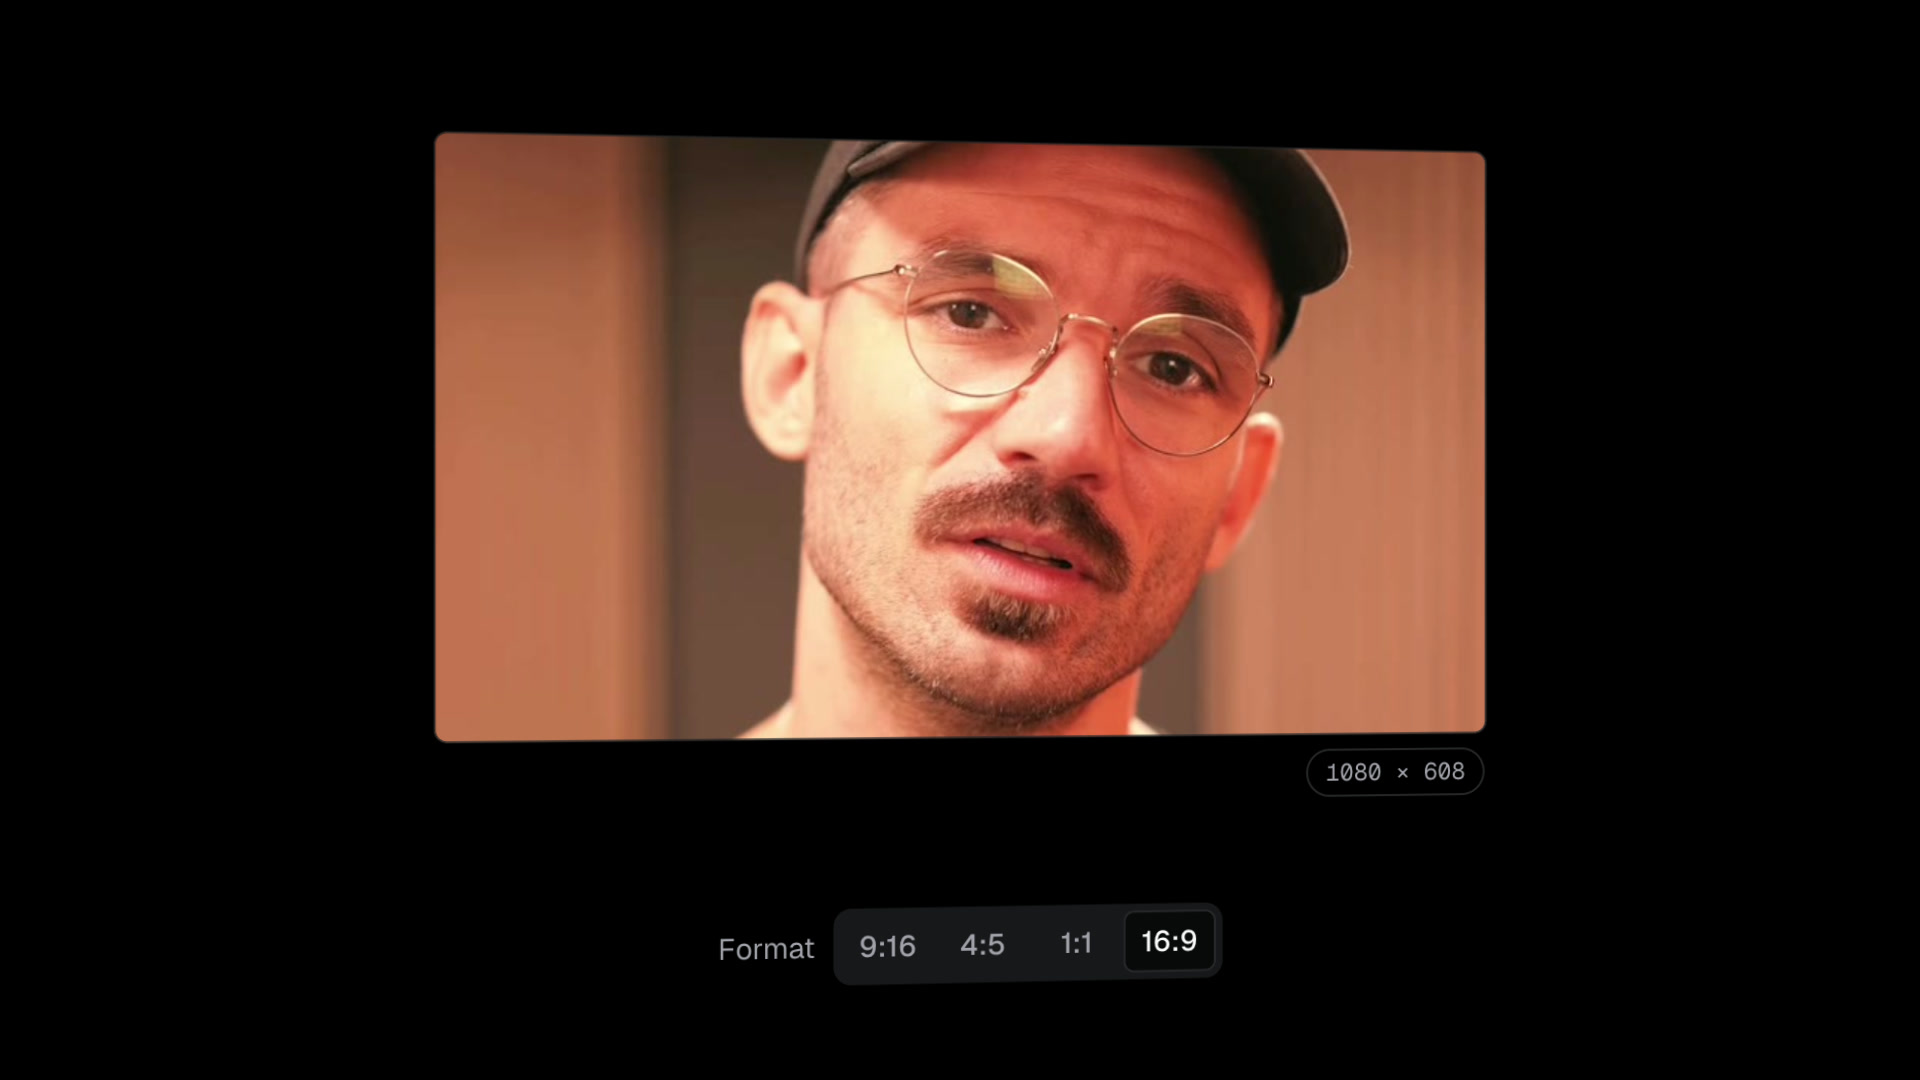
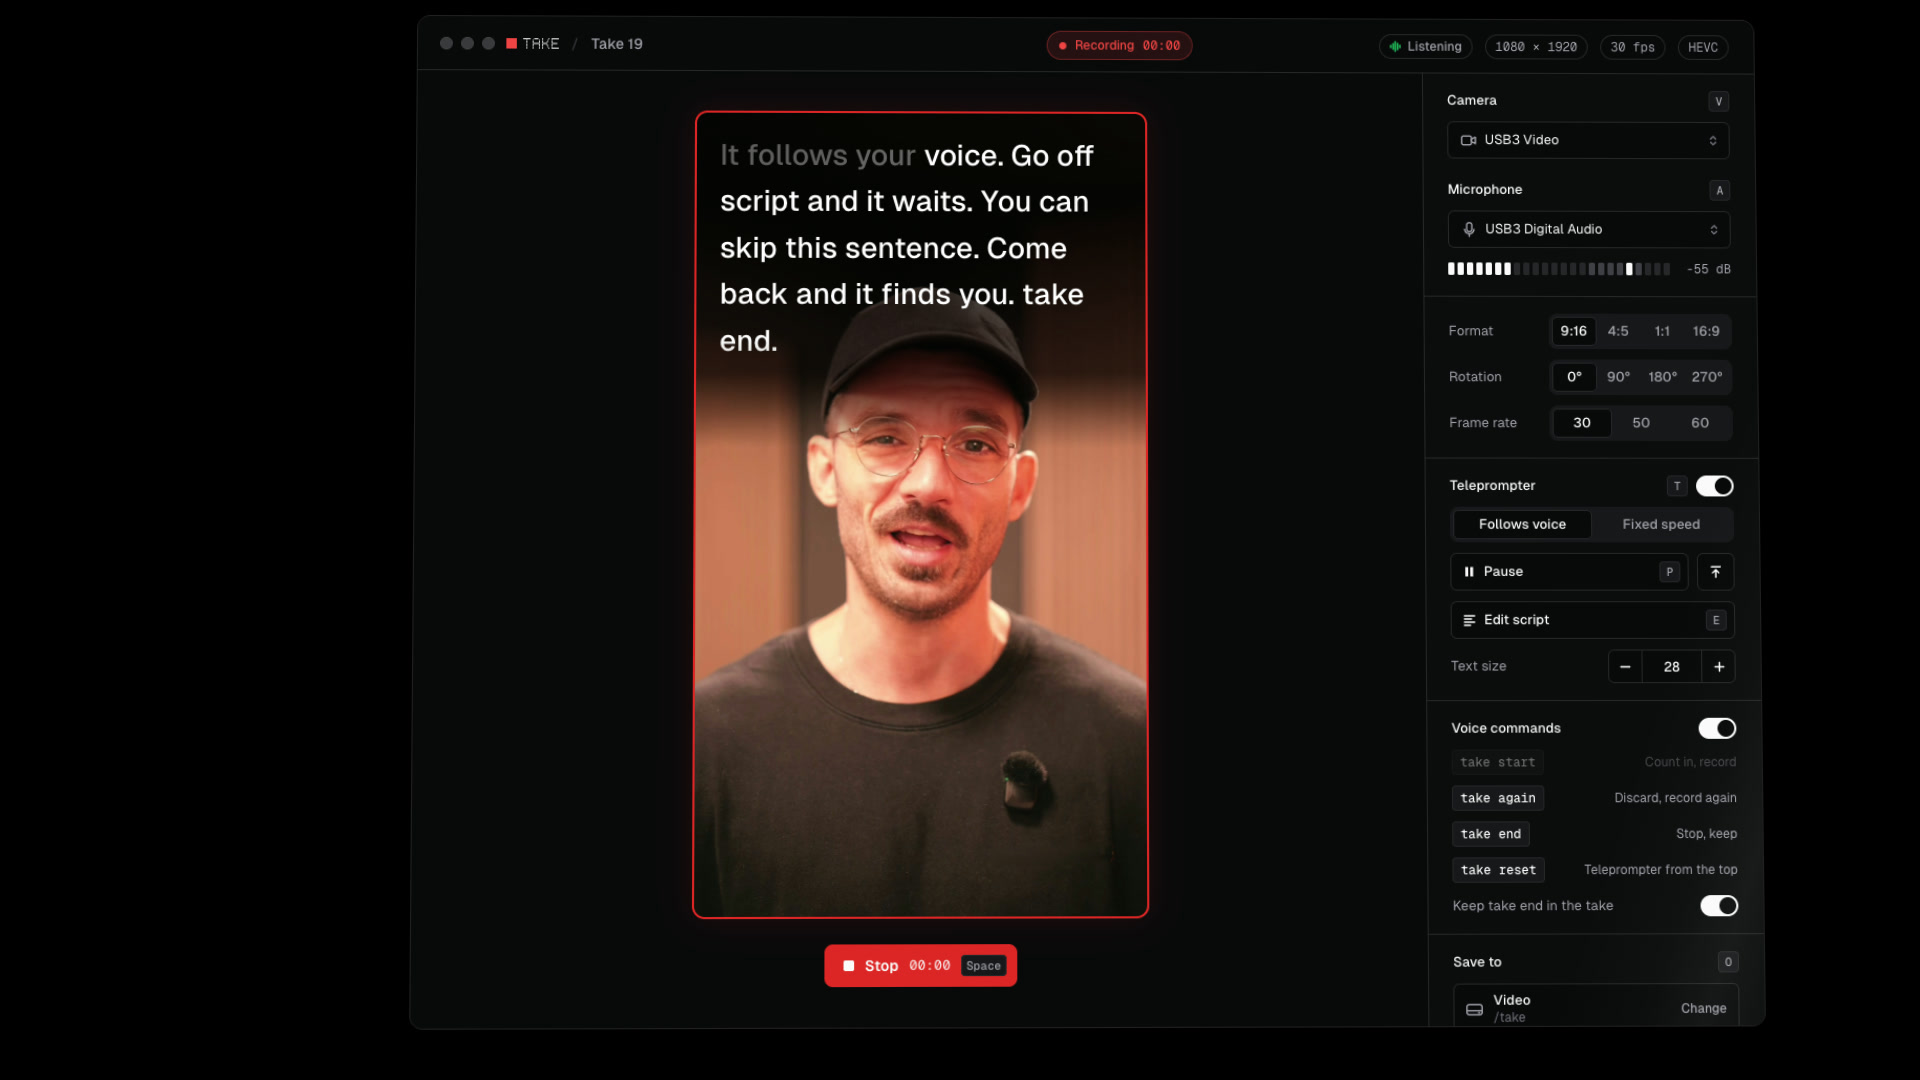
take 1.1: notarized, update checks on request

diff --git a/take/source/Sources/main.swift b/take/source/Sources/main.swift
@@ -107,6 +107,15 @@ enum D {
         get { d.object(forKey: "voiceCommands") as? Bool ?? true }
         set { d.set(newValue, forKey: "voiceCommands") }
     }
+    /// Off unless turned on in the sidebar: the only setting that lets take use the network.
+    static var updateCheck: Bool {
+        get { d.bool(forKey: "updateCheck") }
+        set { d.set(newValue, forKey: "updateCheck") }
+    }
+    static var lastUpdateCheck: Double {
+        get { d.double(forKey: "lastUpdateCheck") }
+        set { d.set(newValue, forKey: "lastUpdateCheck") }
+    }
     static var video: String? { get { d.string(forKey: "video") } set { d.set(newValue, forKey: "video") } }
     static var audio: String? { get { d.string(forKey: "audio") } set { d.set(newValue, forKey: "audio") } }
     static var folder: String? { get { d.string(forKey: "folder") } set { d.set(newValue, forKey: "folder") } }
@@ -251,6 +260,9 @@ final class Model {
     var promptMode: PromptMode = PromptMode(rawValue: D.promptMode) ?? .voice
     var voiceCommands = D.voiceCommands
     var keepEnd = D.keepEnd
+    var updateCheck = D.updateCheck
+    /// A newer version seen on take.ante.design, shown in the sidebar until this app is updated.
+    var updateAvailable: String?
     var listening = false
     var countdown: Int?
     var scriptVersion = 0
@@ -297,6 +309,8 @@ final class Model {
     @ObservationIgnored private var takeStartOffset: CGFloat = 0
     @ObservationIgnored private var badQueue: [Toast] = []
     @ObservationIgnored private var fpsWarned = ""
+    @ObservationIgnored private let updater = Updater()
+    @ObservationIgnored private var updateTimer: Timer?
 
     init() {
         folder = Model.defaultFolder()
@@ -323,6 +337,7 @@ final class Model {
         listener.onLog = { lg.write($0) }
         engine.onLog = { lg.write($0) }
         tracker.load(script)
+        startUpdateChecks()
         // First launch: the onboarding script says "read this out loud and watch it keep up", so it has to be following already.
         if D.d.object(forKey: "script") == nil && promptMode == .voice {
             prompt.running = true
@@ -507,6 +522,37 @@ final class Model {
         keepEnd.toggle()
         D.keepEnd = keepEnd
     }
+
+    func toggleUpdateCheck() {
+        updateCheck.toggle()
+        D.updateCheck = updateCheck
+        if updateCheck { checkForUpdate(force: true) } else { updateAvailable = nil }
+        startUpdateChecks()
+    }
+
+    /// While the switch is on: a check at launch, then the timer looks every hour whether a day has passed.
+    private func startUpdateChecks() {
+        updateTimer?.invalidate()
+        updateTimer = nil
+        guard updateCheck else { return }
+        checkForUpdate(force: false)
+        updateTimer = Timer.scheduledTimer(withTimeInterval: 3600, repeats: true) { [weak self] _ in self?.checkForUpdate(force: false) }
+    }
+
+    private func checkForUpdate(force: Bool) {
+        let now = Date().timeIntervalSince1970
+        guard updateCheck, force || now - D.lastUpdateCheck >= Updater.interval else { return }
+        D.lastUpdateCheck = now
+        updater.check { [weak self] newer in
+            guard let self, updateCheck else { return }
+            let wasKnown = updateAvailable == newer
+            updateAvailable = newer
+            if let v = newer, !wasKnown { say("take \(v) is out", "Download it from take.ante.design.") }
+            else if newer == nil && force { say("take is up to date", "Version \(Updater.currentVersion).") }
+        }
+    }
+
+    func openUpdatePage() { NSWorkspace.shared.open(Updater.site) }
 
     func toggleVoiceCommands() {
         voiceCommands.toggle()
@@ -1710,6 +1756,33 @@ struct Sidebar: View {
                         }
                         .buttonStyle(.plain)
                         .help("Show in Finder")
+                    }
+                }
+
+                divider
+
+                section {
+                    HStack(spacing: 8) {
+                        Text("Check for updates").font(.geist(13)).foregroundStyle(Color.mutedFg).fixedSize()
+                        Spacer(minLength: 0)
+                        Switch(on: model.updateCheck) { model.toggleUpdateCheck() }
+                    }
+                    .frame(height: 20)
+                    if let v = model.updateAvailable {
+                        Button { model.openUpdatePage() } label: {
+                            HStack(spacing: 6) {
+                                Text("take \(v) is out").font(.geist(12, .medium)).foregroundStyle(Color.fg)
+                                Spacer(minLength: 0)
+                                Text("take.ante.design").font(.geist(12)).foregroundStyle(Color.mutedFg)
+                                Image(systemName: "arrow.up.forward").font(.system(size: 10, weight: .medium)).foregroundStyle(Color.mutedFg)
+                            }
+                            .contentShape(Rectangle())
+                        }
+                        .buttonStyle(.plain)
+                    } else {
+                        Text(model.updateCheck ? "Asks take.ante.design once a day. Version \(Updater.currentVersion)." : "Off: take makes no network requests. Version \(Updater.currentVersion).")
+                            .font(.geist(12)).foregroundStyle(Color.subtle)
+                            .fixedSize(horizontal: false, vertical: true)
                     }
                 }
             }

diff --git a/take/demo.html b/take/demo.html
@@ -6,7 +6,7 @@
 <title>take. A free Mac recorder that listens.</title>
 <script>
   /* Release facts. The only place they live. Filled at release time. */
-  window.RELEASE = { version: '1.0', dmgMB: '1.6' };
+  window.RELEASE = { version: '1.1', dmgMB: '1.6' };
   (function (d) {
     d.classList.add('js');
     /* inside ante.design the site's frame carries the name and the count, the page's own bar steps aside */
@@ -50,7 +50,7 @@
   "@context": "https://schema.org",
   "@type": "SoftwareApplication",
   "name": "take",
-  "description": "A free Mac recorder with a teleprompter that follows your voice. Records HEVC in 9:16, 4:5, 1:1 or 16:9. Spoken commands, on-device speech recognition, no account, no analytics, no network requests.",
+  "description": "A free Mac recorder with a teleprompter that follows your voice. Records HEVC in 9:16, 4:5, 1:1 or 16:9. Spoken commands, on-device speech recognition, no account, no analytics. No network requests unless you turn on update checks.",
   "operatingSystem": "macOS 14+",
   "applicationCategory": "MultimediaApplication",
   "offers": { "@type": "Offer", "price": "0", "priceCurrency": "EUR" },
@@ -689,7 +689,7 @@
           <li><span>Speech recognition runs on your Mac.</span><span class="mono">requiresOnDeviceRecognition</span></li>
           <li><span>No account.</span></li>
           <li><span>No analytics.</span></li>
-          <li><span>No network requests.</span></li>
+          <li><span>No network requests, unless you turn on update checks.</span><span class="mono">off by default</span></li>
         </ul>
         <p class="note">This page has no analytics either.</p>
       </div>
@@ -700,16 +700,14 @@
     <div class="wrap split">
       <div>
         <h2 id="install-h">First launch.</h2>
-        <p class="sub">take is not notarized yet, so macOS asks you to confirm it once.</p>
+        <p class="sub">Signed and notarized by Apple. It opens like any other app.</p>
       </div>
       <div>
         <ol class="steps">
           <li><span>Open take.dmg and drag take to Applications.</span></li>
-          <li><span>Open take. macOS stops it the first time.</span></li>
-          <li><span>In <span class="ui">System Settings</span> <span class="sep" aria-hidden="true">›</span> <span class="ui">Privacy &amp; Security</span>, click <span class="ui">Open Anyway</span> and confirm.</span></li>
+          <li><span>Open take.</span></li>
           <li><span>Allow camera, microphone and speech recognition.</span></li>
         </ol>
-        <p class="note">On macOS 14 you can also Control-click the app and choose Open.</p>
         <p class="note">take listens in English or German. If it says Voice is off, add the language under Keyboard › Dictation in System Settings.</p>
         <div class="again">
           <a class="btn" href="https://take.ante.design/take.dmg" download>

diff --git a/take/source/Sources/Update.swift b/take/source/Sources/Update.swift
@@ -1,0 +1,38 @@
+import Foundation
+
+/// The only network request take makes, and only while "Check for updates" is on (off by default).
+/// One GET of https://take.ante.design/version.json at launch and then at most once a day:
+/// {"version": "1.1", "build": 2}. No cookies, no cache, nothing sent but the request itself.
+/// A newer build is shown in the sidebar with a link to the site. Nothing is downloaded or installed.
+final class Updater {
+    static let url = URL(string: "https://take.ante.design/version.json")!
+    static let site = URL(string: "https://take.ante.design/")!
+    static let interval: TimeInterval = 24 * 60 * 60
+
+    static var currentVersion: String { Bundle.main.object(forInfoDictionaryKey: "CFBundleShortVersionString") as? String ?? "0" }
+    static var currentBuild: Int { Int(Bundle.main.object(forInfoDictionaryKey: "CFBundleVersion") as? String ?? "0") ?? 0 }
+
+    private struct Remote: Decodable { let version: String; let build: Int }
+
+    private lazy var session: URLSession = {
+        let c = URLSessionConfiguration.ephemeral
+        c.httpCookieAcceptPolicy = .never
+        c.httpShouldSetCookies = false
+        c.urlCache = nil
+        c.requestCachePolicy = .reloadIgnoringLocalCacheData
+        c.timeoutIntervalForRequest = 10
+        return URLSession(configuration: c)
+    }()
+
+    /// Calls back on the main queue with the newer version, or nil when this one is current or the check failed.
+    func check(_ done: @escaping (String?) -> Void) {
+        session.dataTask(with: Updater.url) { data, response, _ in
+            var newer: String?
+            if let data, (response as? HTTPURLResponse)?.statusCode == 200,
+               let r = try? JSONDecoder().decode(Remote.self, from: data), r.build > Updater.currentBuild {
+                newer = r.version
+            }
+            DispatchQueue.main.async { done(newer) }
+        }.resume()
+    }
+}

diff --git a/take/source/Icon/dmg/background.html b/take/source/Icon/dmg/background.html
@@ -1,0 +1,37 @@
+<!doctype html>
+<html><head><meta charset="utf-8">
+<style>
+@font-face { font-family: Geist; src: url(../../Site/Geist-Medium.woff2); font-weight: 500; }
+html, body { margin: 0; width: 600px; height: 400px; overflow: hidden; background: #09090B; }
+body { position: relative; font-family: Geist, sans-serif; -webkit-font-smoothing: antialiased; }
+/* the arrow: a row of dots on the pixel grid, like the icon's frame, from the app to Applications */
+.arrow { position: absolute; left: 243px; top: 176px; width: 114px; height: 28px; }
+.caption { position: absolute; left: 0; right: 0; top: 318px; text-align: center; font-size: 13px; font-weight: 500; color: #71717A; letter-spacing: 0; }
+.caption b { color: #A1A1AA; font-weight: 500; }
+</style></head>
+<body>
+<svg class="arrow" viewBox="0 0 114 28" shape-rendering="crispEdges">
+  <g fill="#52525B">
+    <rect x="0" y="13" width="2" height="2"/>
+    <rect x="8" y="13" width="2" height="2"/>
+    <rect x="16" y="13" width="2" height="2"/>
+    <rect x="24" y="13" width="2" height="2"/>
+    <rect x="32" y="13" width="2" height="2"/>
+    <rect x="40" y="13" width="2" height="2"/>
+    <rect x="48" y="13" width="2" height="2"/>
+    <rect x="56" y="13" width="2" height="2"/>
+    <rect x="64" y="13" width="2" height="2"/>
+    <rect x="72" y="13" width="2" height="2"/>
+    <rect x="80" y="13" width="2" height="2"/>
+    <rect x="88" y="13" width="2" height="2"/>
+    <rect x="96" y="13" width="2" height="2"/>
+    <rect x="104" y="13" width="2" height="2"/>
+    <rect x="104" y="5" width="2" height="2"/>
+    <rect x="108" y="9" width="2" height="2"/>
+    <rect x="112" y="13" width="2" height="2"/>
+    <rect x="108" y="17" width="2" height="2"/>
+    <rect x="104" y="21" width="2" height="2"/>
+  </g>
+</svg>
+<div class="caption">Drag <b>take</b> to Applications</div>
+</body></html>

diff --git a/take/source/README.md b/take/source/README.md
@@ -60,8 +60,8 @@ Needs Xcode or the Command Line Tools. Builds for this Mac and signs with the Ap
 
     ./release.sh
 
-Builds a universal take.app (Apple silicon and Intel, macOS 14 or later), ad-hoc signed with the hardened runtime, and packs `dist/take.dmg` with an Applications shortcut. Not notarized: the first launch needs Open Anyway under System Settings, Privacy & Security. Writes size and SHA-256 to `dist/release.json`. Every run produces different DMG bytes, so take both from that file, never by hand.
+Builds a universal take.app (Apple silicon and Intel, macOS 14 or later), signed with the hardened runtime, and packs `dist/take.dmg` with an Applications shortcut. Signed with the Developer ID and notarized when the certificate and the notary profile `take-notary` are on the Mac, ad-hoc otherwise.
 
-No account, no analytics, no network requests. Settings live in the user defaults under `design.ante.take`. Geist is under the SIL Open Font License, see `Resources/Fonts-OFL.txt`.
+No account, no analytics. No network requests, unless you turn on Check for updates in the sidebar: then take asks https://take.ante.design/version.json for the current version at launch and at most once a day, and shows a link when there is a newer one. Nothing is downloaded or installed. Settings live in the user defaults under `design.ante.take`. Geist is under the SIL Open Font License, see `Resources/Fonts-OFL.txt`.
 
 Made with Claude Code.
